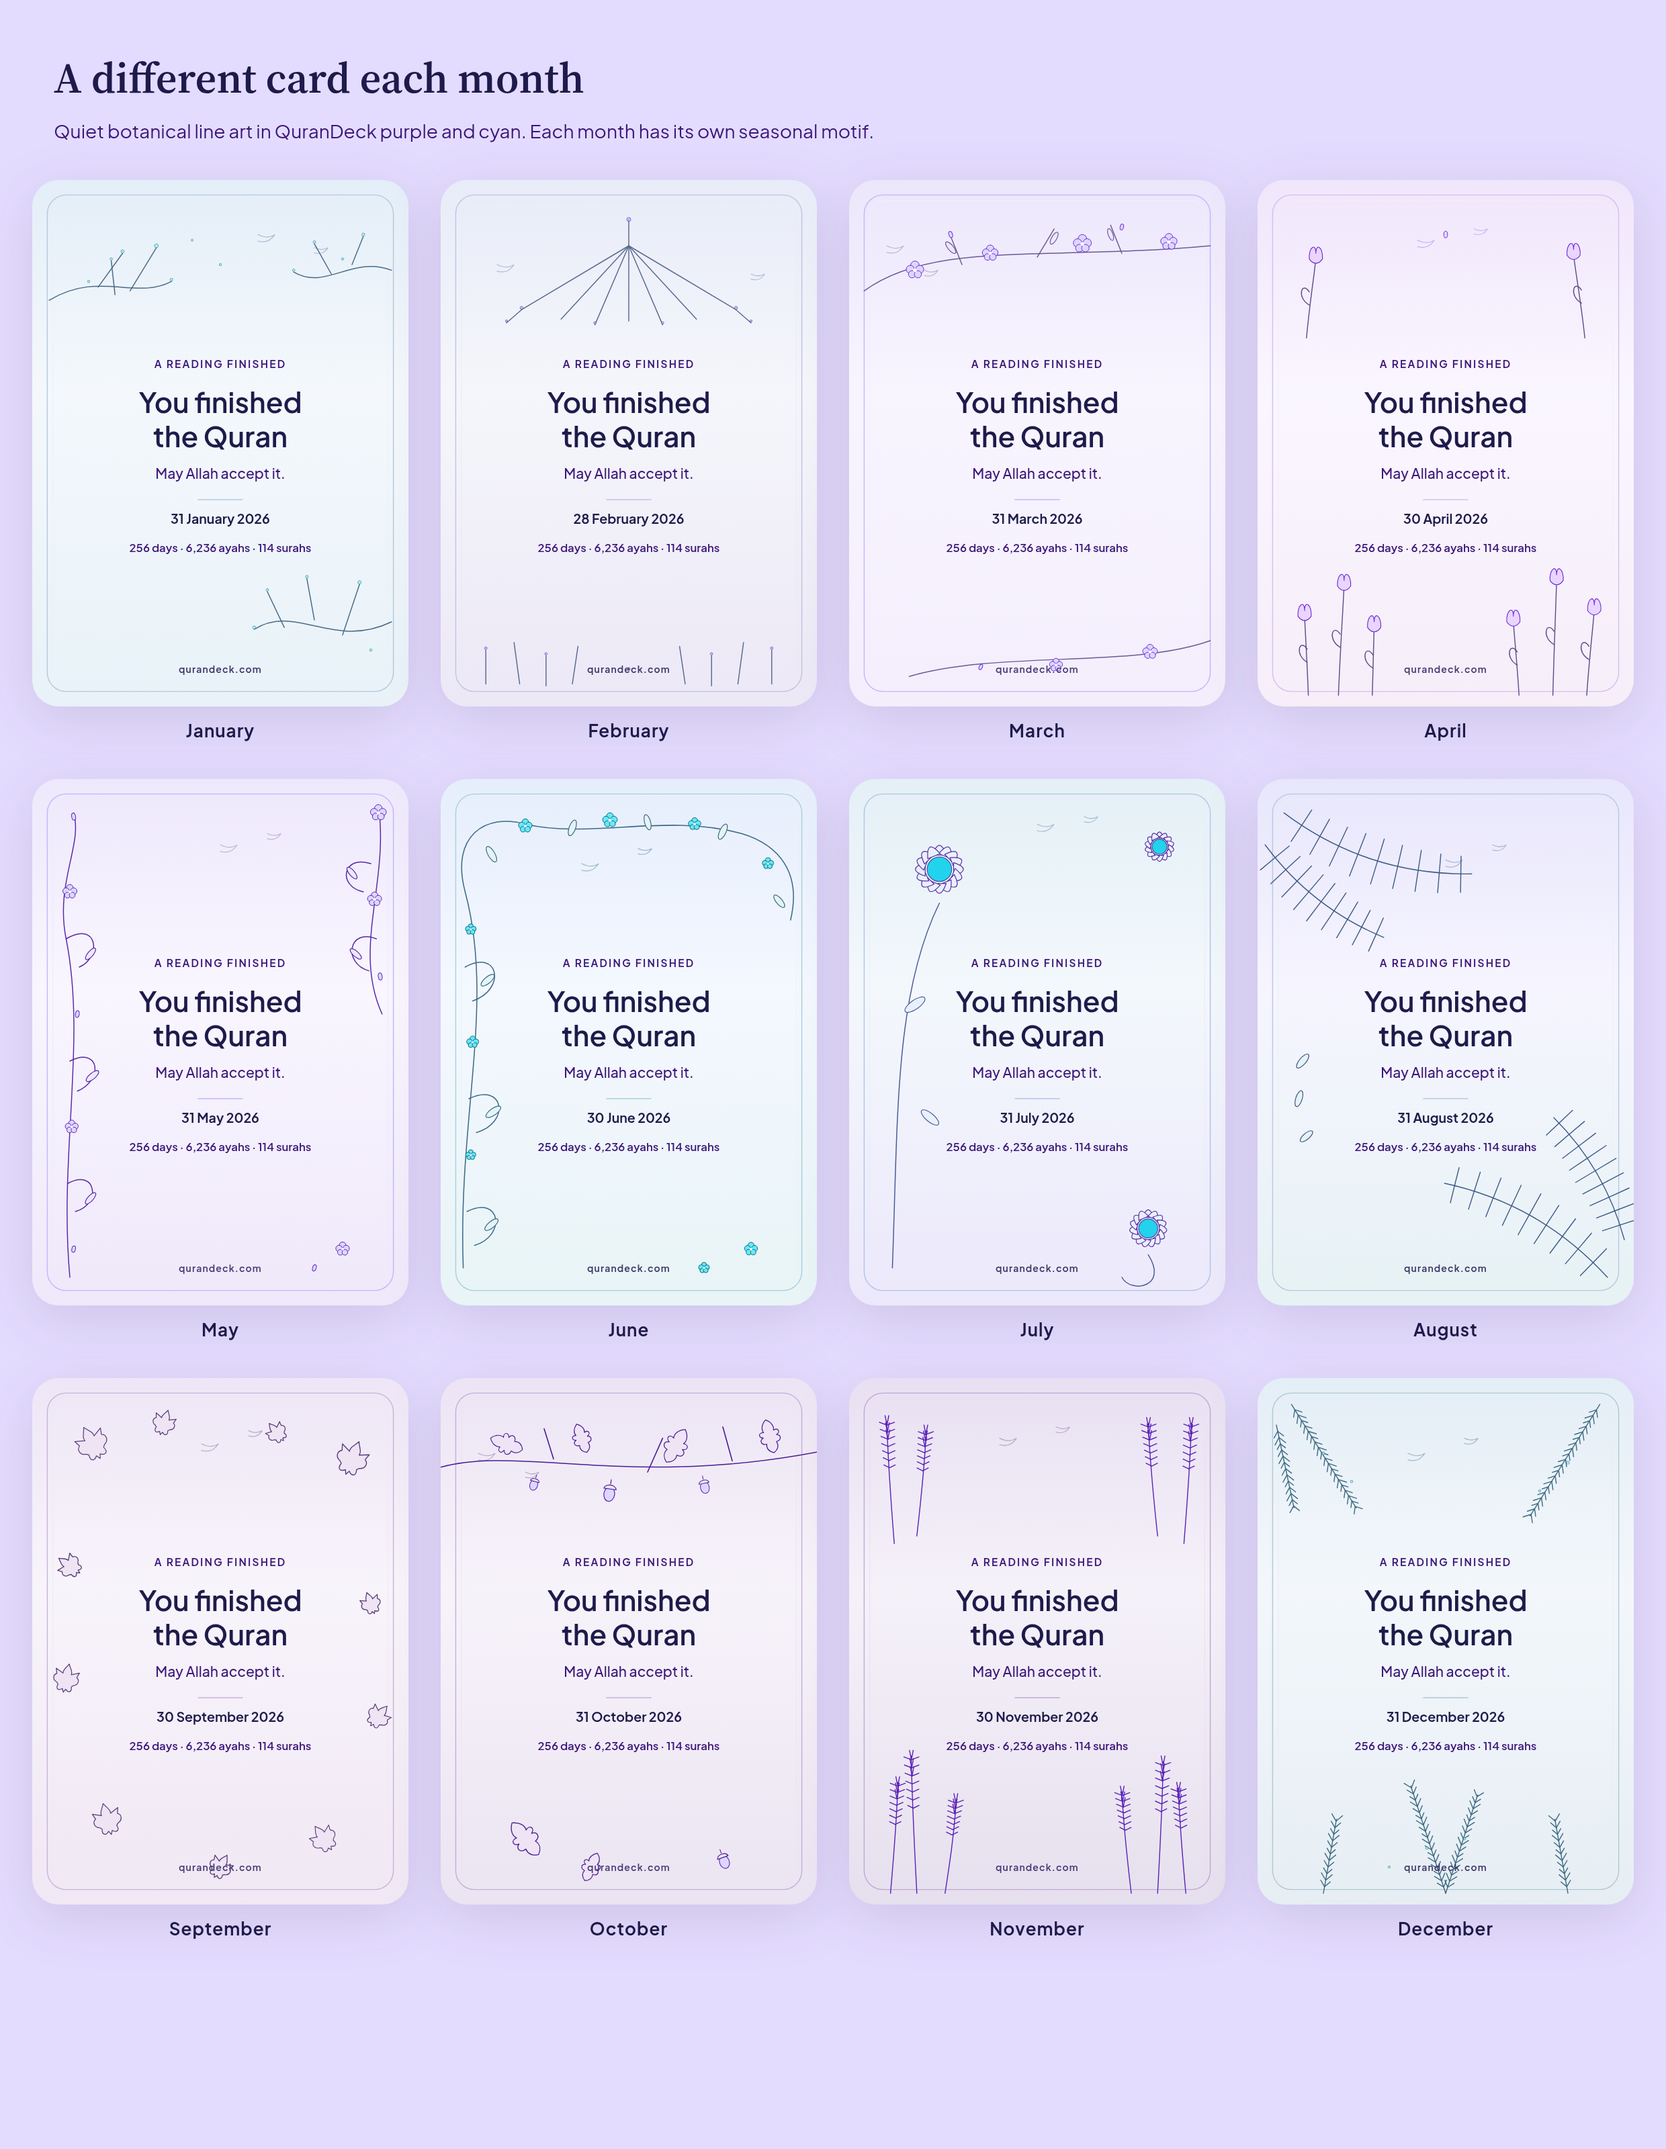
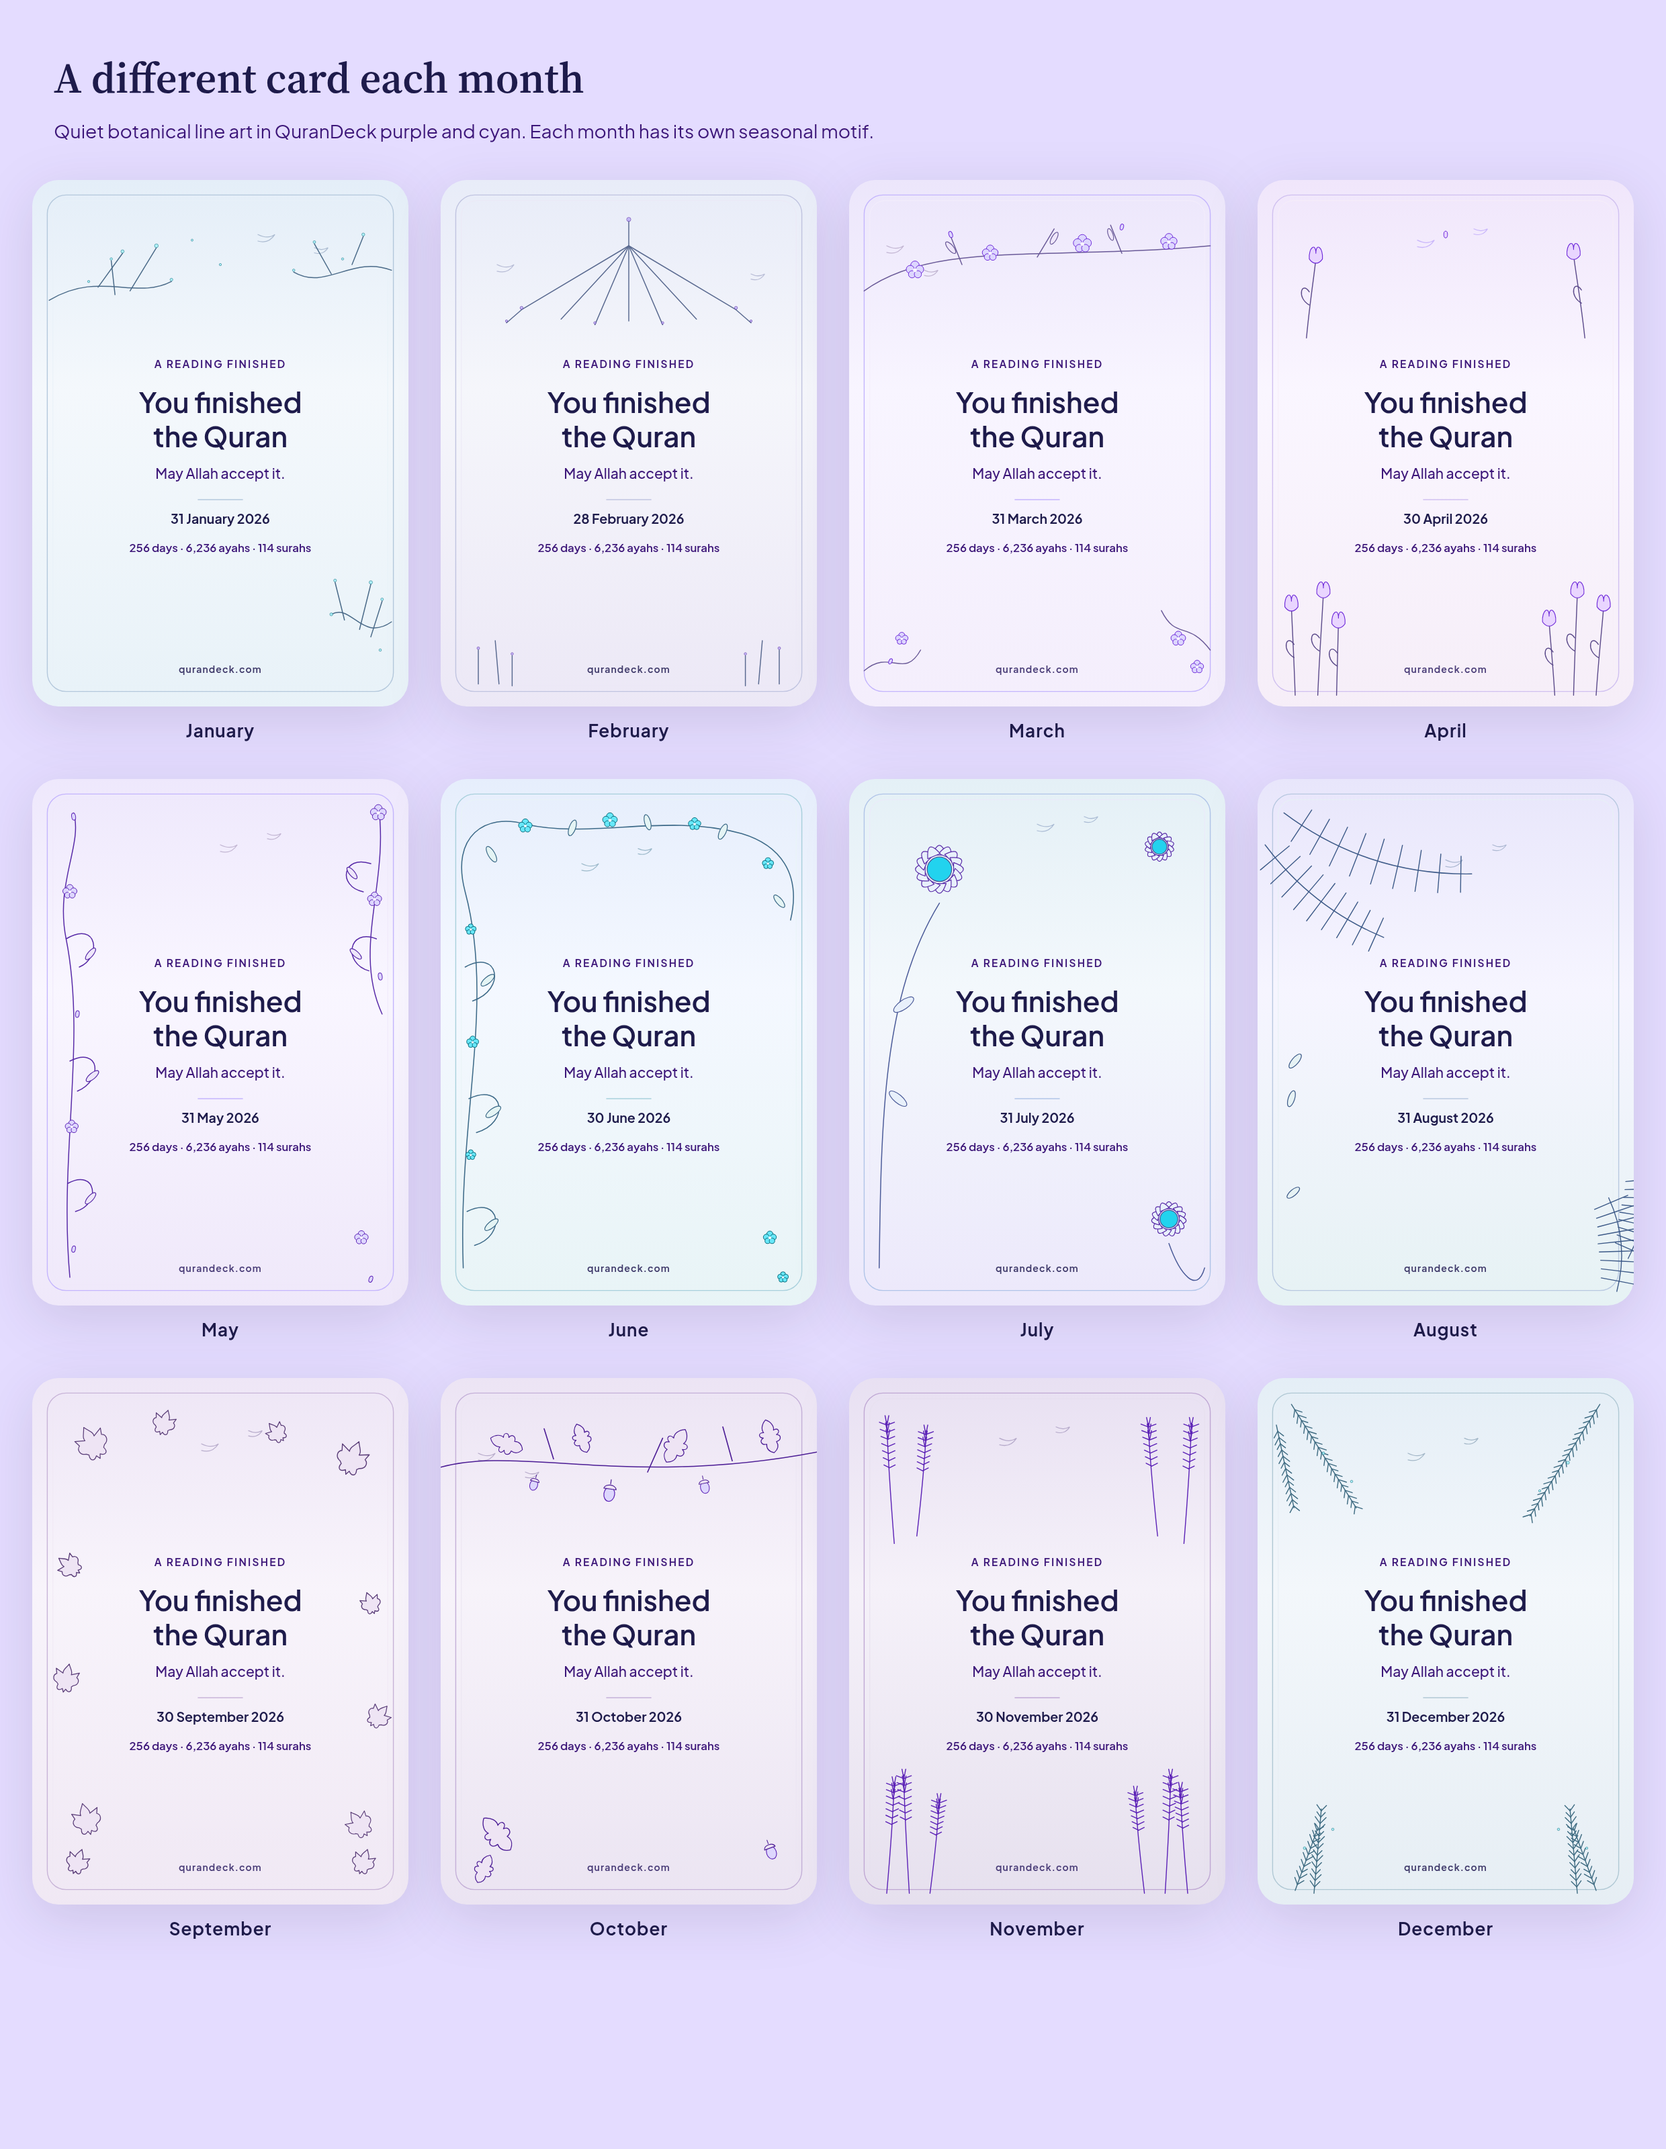
Keepsake cards: keep art clear of the footer and the stats line
Bottom motifs stay in the corners so they no longer run through
qurandeck.com, including March's branch, October's acorn, December's
pine sprigs, February's grass and September's falling leaves. A unit
test rasterizes each motif and checks the stats and footer boxes.

diff --git a/src/lib/keepsake-card.ts b/src/lib/keepsake-card.ts
@@ -311,6 +311,10 @@ function oliveLeaf(d: KeepsakeDesign, x: number, y: number, scale: number, angle
   return `<ellipse cx="${n(x)}" cy="${n(y)}" rx="${n(4.2 * scale)}" ry="${n(11 * scale)}" transform="rotate(${n(angle)} ${n(x)} ${n(y)})" fill="${d.leafFill}" stroke="${d.stem}" stroke-width="0.85"/>`;
 }
 
+/** Motif art must stay out of these boxes so it does not touch the stats line or the site footer. */
+export const KEEPSAKE_STATS_CLEAR = { x: 48, y: 378, width: 304, height: 36 } as const;
+export const KEEPSAKE_FOOTER_CLEAR = { x: 100, y: 504, width: 200, height: 36 } as const;
+
 /** Quiet line-art motif for one month. No people, buildings, symbols, or text in the art. */
 export function keepsakeMotif(design: KeepsakeDesign): string {
   const d = design;
@@ -322,15 +326,15 @@ export function keepsakeMotif(design: KeepsakeDesign): string {
           <path d="M70 114 L96 78"/>
           <path d="M104 118 L132 72"/>
           <path d="M88 122 L84 86"/>
-          <path d="M382 470 C320 500, 280 450, 236 478"/>
-          <path d="M330 484 L348 430"/>
-          <path d="M300 468 L292 424"/>
-          <path d="M268 476 L250 438"/>
+          <path d="M382 470 C350 492, 340 450, 318 462"/>
+          <path d="M348 478 L360 430"/>
+          <path d="M332 468 L322 428"/>
+          <path d="M360 486 L372 448"/>
           <path d="M382 96 C340 80, 312 118, 278 98"/>
           <path d="M340 90 L352 60"/>
           <path d="M318 100 L300 68"/>
         </g>
-        ${frost(d, [[96, 76, 1.7], [132, 70, 2], [84, 84, 1.3], [148, 106, 1.5], [60, 108, 1.2], [348, 428, 1.8], [292, 422, 1.5], [250, 436, 1.4], [236, 476, 1.6], [200, 90, 1.2], [170, 64, 1.1], [360, 500, 1.3], [352, 58, 1.6], [300, 66, 1.4], [278, 96, 1.3], [330, 84, 1.2]])}`;
+        ${frost(d, [[96, 76, 1.7], [132, 70, 2], [84, 84, 1.3], [148, 106, 1.5], [60, 108, 1.2], [360, 428, 1.8], [322, 426, 1.5], [372, 446, 1.4], [318, 462, 1.6], [200, 90, 1.2], [170, 64, 1.1], [370, 500, 1.3], [352, 58, 1.6], [300, 66, 1.4], [278, 96, 1.3], [330, 84, 1.2]])}`;
     case 2:
       return `${birds(d, 60, 90, 330, 100)}
         <g fill="none" stroke="${d.stem}" stroke-width="1.05" stroke-linecap="round">
@@ -344,16 +348,14 @@ export function keepsakeMotif(design: KeepsakeDesign): string {
           <path d="M200 70 L314 138"/>
           <path d="M86 138 L70 152"/>
           <path d="M314 138 L330 152"/>
-          <path d="M48 500 L48 536"/>
-          <path d="M78 492 L84 536"/>
-          <path d="M112 506 L112 538"/>
-          <path d="M146 496 L140 536"/>
-          <path d="M254 496 L260 536"/>
-          <path d="M288 506 L288 538"/>
-          <path d="M322 492 L316 536"/>
-          <path d="M352 500 L352 536"/>
+          <path d="M40 500 L40 536"/>
+          <path d="M58 490 L62 536"/>
+          <path d="M76 506 L76 538"/>
+          <path d="M324 506 L324 538"/>
+          <path d="M342 490 L338 536"/>
+          <path d="M360 500 L360 536"/>
         </g>
-        ${frost(d, [[200, 42, 2.2], [86, 136, 1.6], [314, 136, 1.6], [164, 152, 1.3], [236, 152, 1.3], [70, 150, 1.2], [330, 150, 1.2], [48, 498, 1.4], [112, 504, 1.3], [288, 504, 1.3], [352, 498, 1.4], [200, 520, 1.5]])}`;
+        ${frost(d, [[200, 42, 2.2], [86, 136, 1.6], [314, 136, 1.6], [164, 152, 1.3], [236, 152, 1.3], [70, 150, 1.2], [330, 150, 1.2], [40, 498, 1.4], [76, 504, 1.3], [324, 504, 1.3], [360, 498, 1.4]])}`;
     case 3:
       return `${birds(d, 40, 70, 80, 96)}
         <g fill="none" stroke="${d.stem}" stroke-width="1.05" stroke-linecap="round">
@@ -361,15 +363,16 @@ export function keepsakeMotif(design: KeepsakeDesign): string {
           <path d="M120 90 L108 60"/>
           <path d="M200 82 L218 52"/>
           <path d="M290 78 L278 48"/>
-          <path d="M384 490 C300 520, 160 500, 64 528"/>
+          <path d="M384 500 C360 468, 348 490, 332 458"/>
+          <path d="M16 522 C44 498, 58 532, 76 500"/>
         </g>
         ${oliveLeaf(d, 108, 72, 0.7, -40)}${oliveLeaf(d, 218, 62, 0.65, 30)}${oliveLeaf(d, 278, 58, 0.6, -20)}
         ${blossom(d, 70, 96, 6.2)}${blossom(d, 150, 78, 5.6)}${blossom(d, 248, 68, 6.4)}${blossom(d, 340, 66, 5.8)}
-        ${bud(d, 108, 58, 3.4, -20)}${bud(d, 290, 50, 3.2, 15)}${blossom(d, 320, 502, 5.2)}${blossom(d, 220, 516, 4.6)}${bud(d, 140, 518, 3, 25)}`;
+        ${bud(d, 108, 58, 3.4, -20)}${bud(d, 290, 50, 3.2, 15)}${blossom(d, 350, 488, 5.2)}${blossom(d, 370, 518, 4.6)}${bud(d, 44, 512, 3, 25)}${blossom(d, 56, 488, 4.4)}`;
     case 4:
       return `${birds(d, 170, 64, 230, 52)}
-        ${tulip(d, 54, 548, 86, -4)}${tulip(d, 86, 548, 118, 6)}${tulip(d, 122, 548, 74, 2)}
-        ${tulip(d, 278, 548, 80, -6)}${tulip(d, 314, 548, 124, 4)}${tulip(d, 350, 548, 92, 8)}
+        ${tulip(d, 40, 548, 96, -4)}${tulip(d, 64, 548, 110, 6)}${tulip(d, 84, 548, 78, 2)}
+        ${tulip(d, 316, 548, 80, -6)}${tulip(d, 336, 548, 110, 4)}${tulip(d, 360, 548, 96, 8)}
         ${tulip(d, 52, 168, 86, 10)}${tulip(d, 348, 168, 90, -12)}
         ${bud(d, 200, 58, 3.6, 0)}`;
     case 5:
@@ -386,7 +389,7 @@ export function keepsakeMotif(design: KeepsakeDesign): string {
         ${oliveLeaf(d, 62, 186, 0.7, 40)}${oliveLeaf(d, 64, 316, 0.75, 50)}${oliveLeaf(d, 62, 446, 0.7, 42)}
         ${oliveLeaf(d, 340, 100, 0.7, -40)}${oliveLeaf(d, 344, 186, 0.7, -48)}
         ${bud(d, 44, 40, 3.8, -10)}${blossom(d, 40, 120, 5)}${bud(d, 48, 250, 3.6, 8)}${blossom(d, 42, 370, 4.6)}${bud(d, 44, 500, 3.4, 12)}
-        ${blossom(d, 368, 36, 5.6)}${blossom(d, 364, 128, 5)}${bud(d, 370, 210, 3.8, -8)}${blossom(d, 330, 500, 4.8)}${bud(d, 300, 520, 3.4, 20)}`;
+        ${blossom(d, 368, 36, 5.6)}${blossom(d, 364, 128, 5)}${bud(d, 370, 210, 3.8, -8)}${blossom(d, 350, 488, 4.8)}${bud(d, 360, 532, 3.4, 20)}`;
     case 6:
       return `${birds(d, 150, 90, 210, 74)}
         <g fill="none" stroke="${d.stem}" stroke-width="1.1" stroke-linecap="round">
@@ -400,24 +403,24 @@ export function keepsakeMotif(design: KeepsakeDesign): string {
         ${oliveLeaf(d, 360, 130, 0.75, -40)}
         ${blossom(d, 90, 50, 4.8)}${blossom(d, 180, 44, 5.2)}${blossom(d, 270, 48, 4.4)}${blossom(d, 348, 90, 4)}
         ${blossom(d, 32, 160, 3.8)}${blossom(d, 34, 280, 4.2)}${blossom(d, 32, 400, 3.6)}
-        ${blossom(d, 330, 500, 4.6)}${blossom(d, 280, 520, 3.8)}`;
+        ${blossom(d, 350, 488, 4.6)}${blossom(d, 364, 530, 3.8)}`;
     case 7:
       return `${birds(d, 200, 48, 250, 40)}
         ${sunflower(d, 96, 96, 36, 16)}
         ${sunflower(d, 330, 72, 22, 14)}
-        ${sunflower(d, 318, 478, 28, 15)}
+        ${sunflower(d, 340, 468, 26, 15)}
         <g fill="none" stroke="${d.stem}" stroke-width="1.05" stroke-linecap="round">
-          <path d="M96 132 C48 230, 52 360, 46 520"/>
-          <path d="M318 506 C340 540, 300 548, 290 530"/>
+          <path d="M96 132 C36 230, 34 360, 32 520"/>
+          <path d="M340 494 C352 528, 370 548, 378 520"/>
         </g>
-        ${oliveLeaf(d, 70, 240, 1.15, 55)}${oliveLeaf(d, 86, 360, 1.05, -50)}`;
+        ${oliveLeaf(d, 58, 240, 1.15, 55)}${oliveLeaf(d, 52, 340, 1.05, -50)}`;
     case 8:
       return `${birds(d, 200, 86, 250, 70)}
         ${palmFrond(d, 28, 36, 210, 18, 36)}
         ${palmFrond(d, 8, 70, 160, 38, 22)}
-        ${palmFrond(d, 372, 530, 200, -150, 32)}
-        ${palmFrond(d, 390, 490, 150, -120, 20)}
-        ${oliveLeaf(d, 48, 300, 0.85, 40)}${oliveLeaf(d, 44, 340, 0.8, 18)}${oliveLeaf(d, 52, 380, 0.75, 50)}`;
+        ${palmFrond(d, 382, 545, 100, -95, 18)}
+        ${palmFrond(d, 394, 510, 90, -80, 14)}
+        ${oliveLeaf(d, 40, 300, 0.85, 40)}${oliveLeaf(d, 36, 340, 0.8, 18)}${oliveLeaf(d, 38, 440, 0.75, 50)}`;
     case 9:
       return `${birds(d, 180, 70, 230, 56)}
         ${mapleLeaf(d, 64, 70, 1.15, -28)}
@@ -428,9 +431,10 @@ export function keepsakeMotif(design: KeepsakeDesign): string {
         ${mapleLeaf(d, 36, 320, 0.9, 12)}
         ${mapleLeaf(d, 360, 240, 0.7, -20)}
         ${mapleLeaf(d, 368, 360, 0.85, 40)}
-        ${mapleLeaf(d, 80, 470, 1, -15)}
-        ${mapleLeaf(d, 200, 520, 0.75, 30)}
-        ${mapleLeaf(d, 310, 490, 0.95, -35)}`;
+        ${mapleLeaf(d, 58, 470, 1, -15)}
+        ${mapleLeaf(d, 48, 515, 0.75, 20)}
+        ${mapleLeaf(d, 348, 475, 0.95, -35)}
+        ${mapleLeaf(d, 352, 515, 0.8, 18)}`;
     case 10:
       return `${birds(d, 40, 80, 90, 100)}
         <g fill="none" stroke="${d.stem}" stroke-width="1.15" stroke-linecap="round">
@@ -446,31 +450,31 @@ export function keepsakeMotif(design: KeepsakeDesign): string {
         ${acorn(d, 180, 118, 1.05, 8)}
         ${acorn(d, 280, 112, 0.95, -12)}
         ${acorn(d, 100, 110, 0.85, 16)}
-        ${oakLeaf(d, 90, 490, 1.05, -40)}
-        ${oakLeaf(d, 160, 520, 0.8, 25)}
-        ${acorn(d, 300, 510, 1, -20)}`;
+        ${oakLeaf(d, 60, 485, 1.05, -40)}
+        ${oakLeaf(d, 46, 522, 0.8, 25)}
+        ${acorn(d, 350, 500, 1, -20)}`;
     case 11:
       return `${birds(d, 160, 64, 220, 52)}
         ${wheat(d, 48, 176, 130, -8)}
         ${wheat(d, 72, 168, 112, 10)}
         ${wheat(d, 328, 168, 120, -10)}
         ${wheat(d, 356, 176, 128, 8)}
-        ${wheat(d, 44, 548, 118, 8)}
-        ${wheat(d, 72, 548, 146, -6)}
-        ${wheat(d, 102, 548, 100, 12)}
-        ${wheat(d, 300, 548, 108, -10)}
-        ${wheat(d, 328, 548, 140, 6)}
-        ${wheat(d, 358, 548, 112, -8)}`;
+        ${wheat(d, 40, 548, 118, 8)}
+        ${wheat(d, 64, 548, 126, -6)}
+        ${wheat(d, 86, 548, 100, 10)}
+        ${wheat(d, 314, 548, 108, -10)}
+        ${wheat(d, 336, 548, 126, 6)}
+        ${wheat(d, 360, 548, 112, -8)}`;
     default:
       return `${birds(d, 160, 80, 220, 64)}
         ${pineSprig(d, 36, 28, 130, 58)}
         ${pineSprig(d, 20, 50, 90, 78)}
         ${pineSprig(d, 364, 28, 140, 122)}
-        ${pineSprig(d, 200, 548, 110, -72)}
-        ${pineSprig(d, 200, 548, 120, -108)}
-        ${pineSprig(d, 70, 548, 80, -80)}
-        ${pineSprig(d, 330, 548, 80, -100)}
-        ${frost(d, [[70, 80, 1.5], [100, 110, 1.3], [330, 90, 1.6], [300, 120, 1.2], [180, 500, 1.4], [220, 490, 1.3], [140, 520, 1.2]])}`;
+        ${pineSprig(d, 60, 548, 90, -85)}
+        ${pineSprig(d, 40, 545, 70, -70)}
+        ${pineSprig(d, 340, 548, 90, -95)}
+        ${pineSprig(d, 360, 545, 70, -110)}
+        ${frost(d, [[70, 80, 1.5], [100, 110, 1.3], [330, 90, 1.6], [300, 120, 1.2], [50, 500, 1.4], [80, 480, 1.3], [350, 500, 1.2], [320, 480, 1.3]])}`;
   }
 }
 

diff --git a/tests/finished-reading.test.ts b/tests/finished-reading.test.ts
@@ -20,7 +20,15 @@ import {
   reconcileFinishedReadings,
   startNewReading,
 } from "../src/lib/finished-reading";
-import { keepsakeDesignForMonth, keepsakeMotif, keepsakeSvg, KEEPSAKE_DESIGNS } from "../src/lib/keepsake-card";
+import {
+  keepsakeDesignForMonth,
+  keepsakeMotif,
+  keepsakeSvg,
+  KEEPSAKE_DESIGNS,
+  KEEPSAKE_FOOTER_CLEAR,
+  KEEPSAKE_STATS_CLEAR,
+} from "../src/lib/keepsake-card";
+import sharp from "sharp";
 
 const KEYS = allVerseKeys();
 
@@ -119,6 +127,42 @@ describe("daysInclusive and month mapping", () => {
         assert.ok(ratio(design.muted, paper) >= 4.5, `${design.id} muted on ${paper}`);
       }
     }
+  });
+
+  it("keeps motif art out of the stats line and the site footer", async () => {
+    const scale = 2;
+    const hex = (value: string) => [
+      Number.parseInt(value.slice(1, 3), 16),
+      Number.parseInt(value.slice(3, 5), 16),
+      Number.parseInt(value.slice(5, 7), 16),
+    ] as const;
+    const inkIn = async (design: (typeof KEEPSAKE_DESIGNS)[number], box: { x: number; y: number; width: number; height: number }) => {
+      const svg = `<svg xmlns="http://www.w3.org/2000/svg" viewBox="0 0 400 560" width="800" height="1120">
+        <rect width="400" height="560" fill="${design.paperMid}"/>
+        ${keepsakeMotif(design)}
+      </svg>`;
+      const { data, info } = await sharp(Buffer.from(svg)).resize(400 * scale, 560 * scale).removeAlpha().raw().toBuffer({ resolveWithObject: true });
+      const paper = hex(design.paperMid);
+      let count = 0;
+      for (let y = box.y * scale; y < (box.y + box.height) * scale; y += 1) {
+        for (let x = box.x * scale; x < (box.x + box.width) * scale; x += 1) {
+          const i = (y * info.width + x) * info.channels;
+          const dr = Math.abs(data[i]! - paper[0]);
+          const dg = Math.abs(data[i + 1]! - paper[1]);
+          const db = Math.abs(data[i + 2]! - paper[2]);
+          if (dr > 18 || dg > 18 || db > 18) count += 1;
+        }
+      }
+      return count;
+    };
+    const failures: string[] = [];
+    for (const design of KEEPSAKE_DESIGNS) {
+      const stats = await inkIn(design, KEEPSAKE_STATS_CLEAR);
+      const footer = await inkIn(design, KEEPSAKE_FOOTER_CLEAR);
+      if (stats) failures.push(`${design.id} art in the stats line (${stats} px)`);
+      if (footer) failures.push(`${design.id} art in the site footer (${footer} px)`);
+    }
+    assert.deepEqual(failures, []);
   });
 });
 
